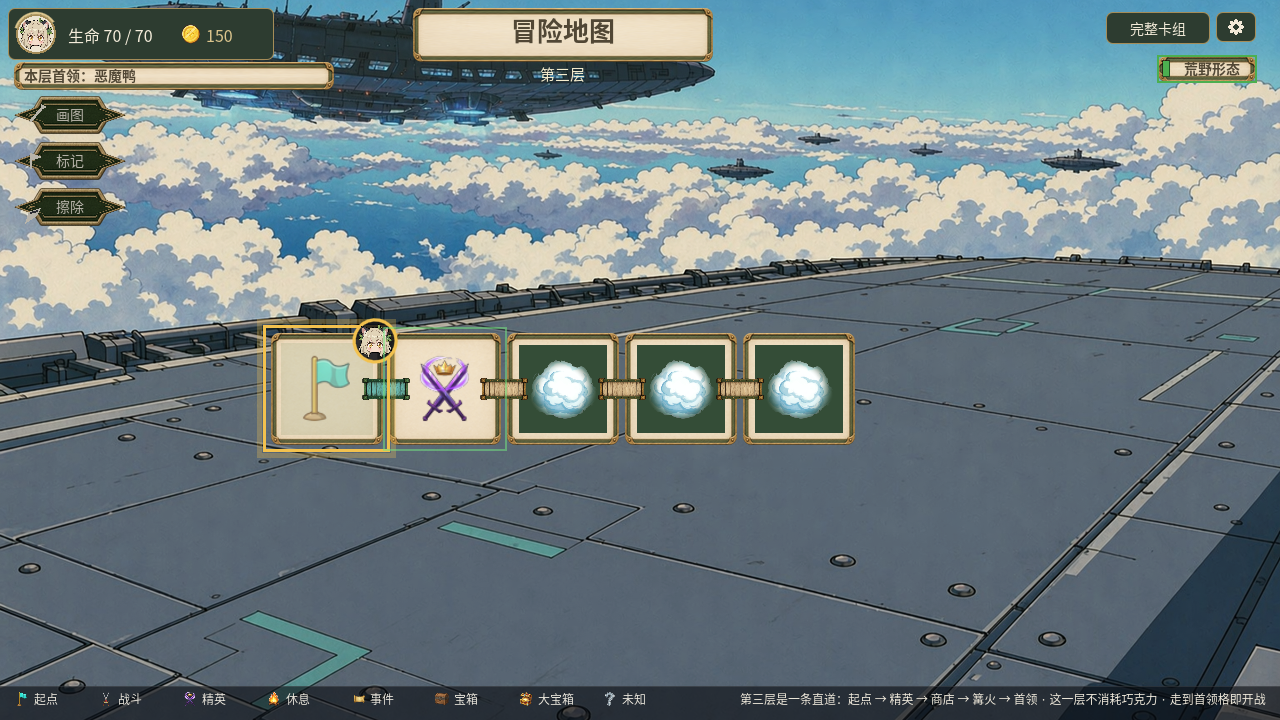
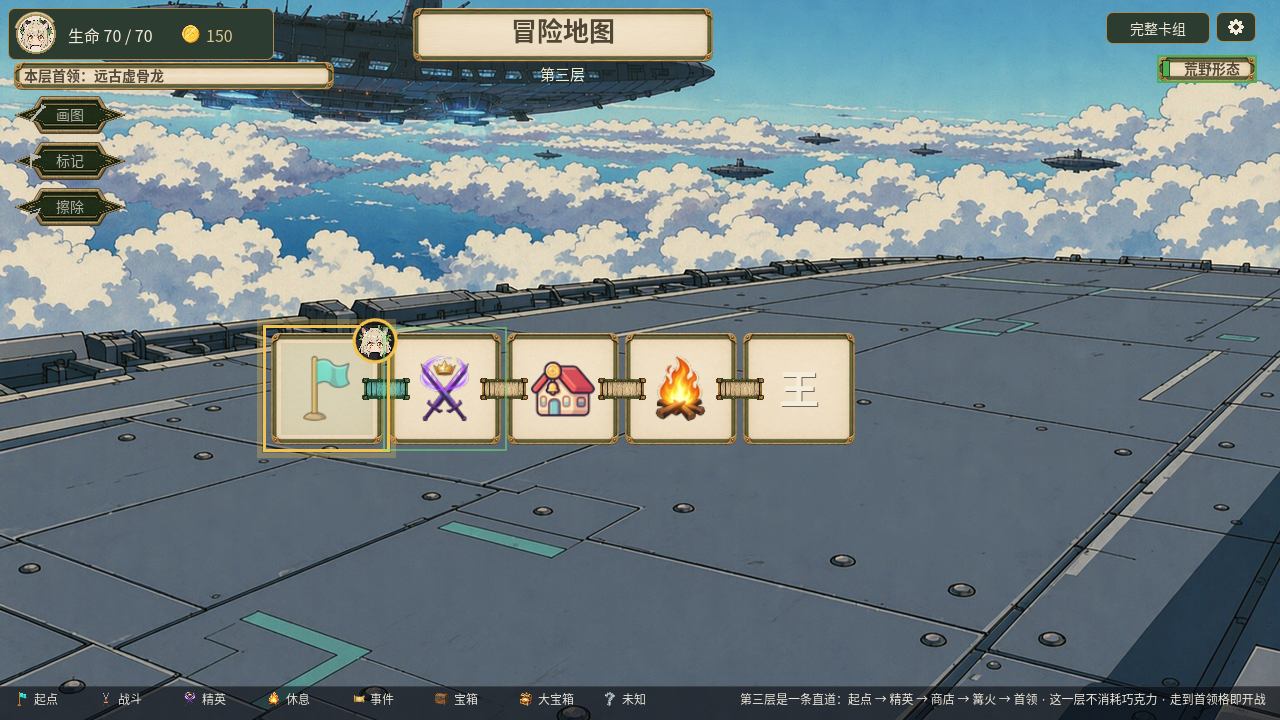
Verify revealed third-layer map on second workstation; record smoke failure

Changed region(s): [[0.4062, 0.4583, 0.6562, 0.6111], [0.0625, 0.0917, 0.125, 0.1222]]

diff --git a/HANDOFF.md b/HANDOFF.md
@@ -1,3 +1,9 @@
+## 2026-11-04 换机接手验证（E:/work）
+- 已重建 Godot 4.3 素材导入缓存，重跑 verify_map_concept.gd，MAP UI PASS。
+- 已更新 map/relic_scroll/layer3 截图；目视确认第三层五个房间全明、无探索雾、无巧克力控件。
+- 本机完整回归：engine 5298、reward 26、bgm 39 通过；smoke 64 通过 / 1 失败：R367 失败记录调两次新增 0 条（预期 1）。尚未定位，不得称完整回归通过。
+- 待继续：定位 R367 的记录状态/写入问题；战斗地图总览与其他道具边界人工验收尚未完成。
+- 原有未跟踪奖励页素材保留，未加入本轮提交。此次仅本地提交，未推送。
 # UI 改造交接（2026-11-03）
 
 ## 最新暂停点：2026-11-04 地图实现尚未提交

diff --git a/TODO_MAP_HANDOFF.md b/TODO_MAP_HANDOFF.md
@@ -1,3 +1,9 @@
+## 2026-11-04 换机接手验证（E:/work）
+- 已重建 Godot 4.3 素材导入缓存，重跑 verify_map_concept.gd，MAP UI PASS。
+- 已更新 map/relic_scroll/layer3 截图；目视确认第三层五个房间全明、无探索雾、无巧克力控件。
+- 本机完整回归：engine 5298、reward 26、bgm 39 通过；smoke 64 通过 / 1 失败：R367 失败记录调两次新增 0 条（预期 1）。尚未定位，不得称完整回归通过。
+- 待继续：定位 R367 的记录状态/写入问题；战斗地图总览与其他道具边界人工验收尚未完成。
+- 原有未跟踪奖励页素材保留，未加入本轮提交。此次仅本地提交，未推送。
 # 地图 UI 接手 TODO — 2026-11-04 暂停点
 
 ## 当前授权与 Git 状态
